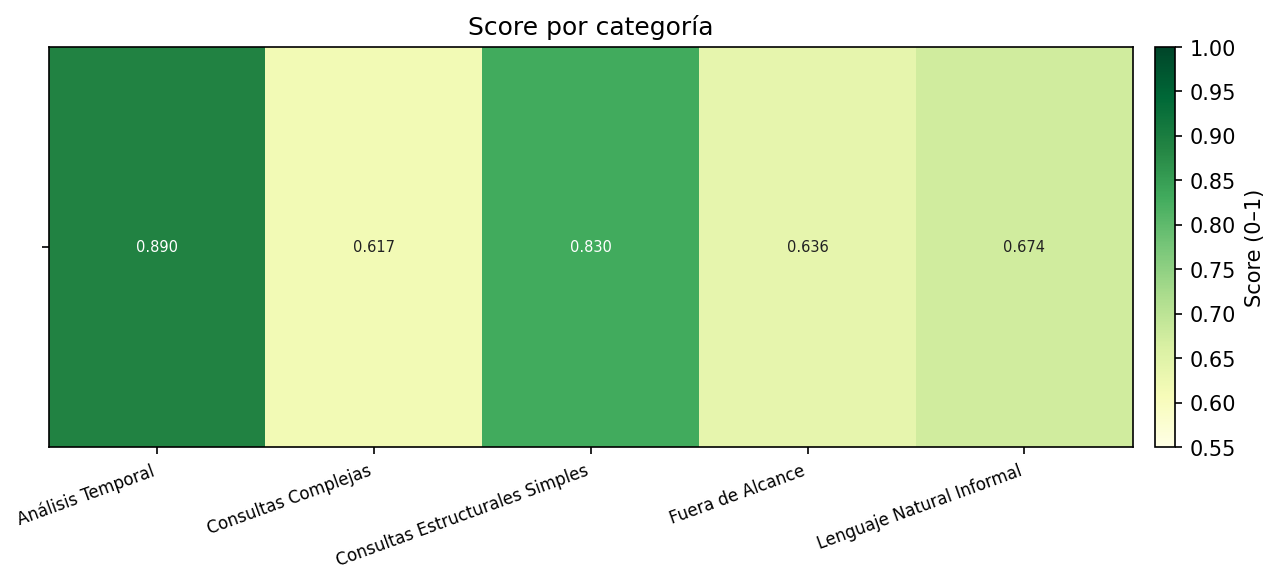
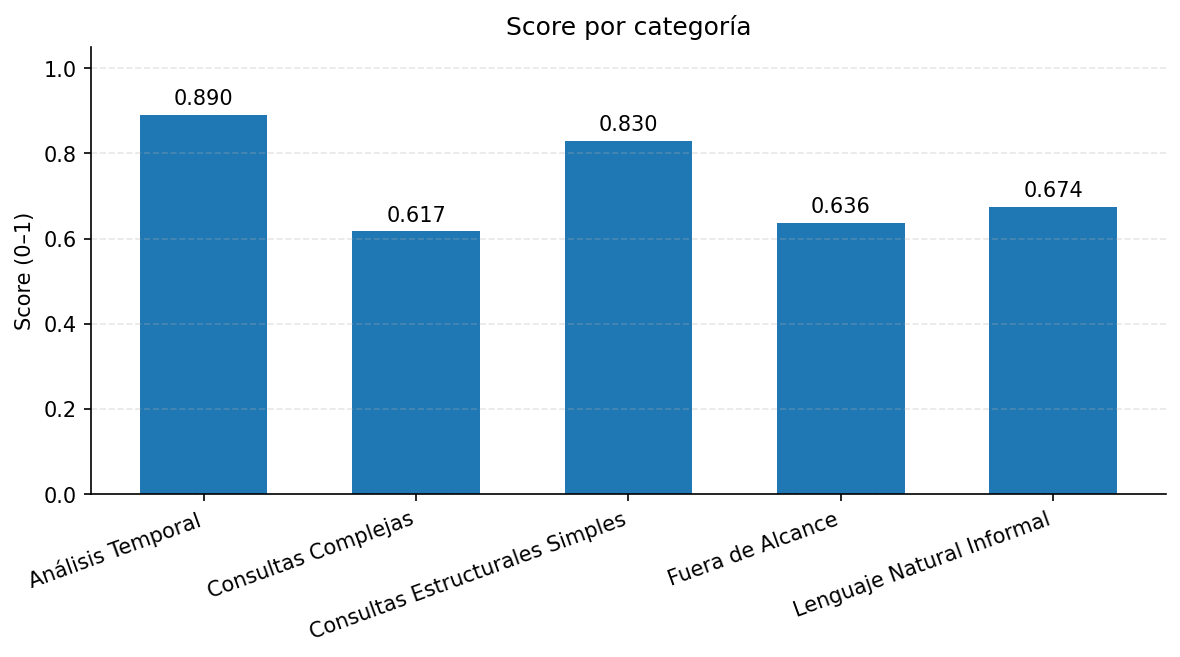
fix charts (#313)

diff --git a/evaluation/results/retrieval_and_generation/end_to_end_report.html b/evaluation/results/retrieval_and_generation/end_to_end_report.html
@@ -33,11 +33,11 @@
   <div class="card">
     <h2>Mini Análisis</h2>
     <ul class="analysis">
-      <li><strong>Retrieval: Qwen/Qwen2.5-Coder-14B-Instruct<br>Generación: google/gemma-3-12b-it / </strong> logra la mejor calidad global (0.817).</li>
-<li>El modelo <strong>Retrieval: Qwen/Qwen2.5-Coder-14B-Instruct<br>Generación: google/gemma-3-12b-it</strong> es el de mayor calidad pico (0.817).</li>
+      <li><strong>Retrieval: Qwen/Qwen2.5-Coder-14B-Instruct<br>Generación: gemma3:4b-it-qat / </strong> logra la mejor calidad global (0.817).</li>
+<li>El modelo <strong>Retrieval: Qwen/Qwen2.5-Coder-14B-Instruct<br>Generación: gemma3:4b-it-qat</strong> es el de mayor calidad pico (0.817).</li>
 <li>El prompt <strong></strong> es el mejor en promedio (0.817).</li>
-<li><strong>Retrieval: Qwen/Qwen2.5-Coder-14B-Instruct<br>Generación: google/gemma-3-12b-it / </strong> maneja mejor los centinelas (accuracy 0.538).</li>
-<li><strong>Retrieval: Qwen/Qwen2.5-Coder-14B-Instruct<br>Generación: google/gemma-3-12b-it / </strong> es el más rápido (latencia media 123.2s, p95 592.3s).</li>
+<li><strong>Retrieval: Qwen/Qwen2.5-Coder-14B-Instruct<br>Generación: gemma3:4b-it-qat / </strong> maneja mejor los centinelas (accuracy 0.538).</li>
+<li><strong>Retrieval: Qwen/Qwen2.5-Coder-14B-Instruct<br>Generación: gemma3:4b-it-qat / </strong> es el más rápido (latencia media 123.2s, p95 592.3s).</li>
     </ul>
   </div>
 
@@ -56,7 +56,7 @@
           <tr><th>Correctitud</th><th>Completitud</th><th>Fidelidad</th><th>media</th><th>mediana</th><th>p95</th></tr>
         </thead>
         <tbody>
-          <tr><td class='llm-name'>Retrieval: Qwen/Qwen2.5-Coder-14B-Instruct<br>Generación: google/gemma-3-12b-it / </td><td style="background:#27ae6018;color:#27ae60;font-weight:600;">0.821</td><td style="background:#27ae6018;color:#27ae60;font-weight:600;">0.728</td><td style="background:#27ae6018;color:#27ae60;font-weight:600;">0.903</td><td style="background:#27ae6018;color:#27ae60;font-weight:600;">0.817</td><td style="background:#e67e2218;color:#e67e22;font-weight:600;">0.538</td><td>123.2s</td><td>45.0s</td><td>592.3s</td></tr>
+          <tr><td class='llm-name'>Retrieval: Qwen/Qwen2.5-Coder-14B-Instruct<br>Generación: gemma3:4b-it-qat / </td><td style="background:#27ae6018;color:#27ae60;font-weight:600;">0.821</td><td style="background:#27ae6018;color:#27ae60;font-weight:600;">0.728</td><td style="background:#27ae6018;color:#27ae60;font-weight:600;">0.903</td><td style="background:#27ae6018;color:#27ae60;font-weight:600;">0.817</td><td style="background:#e67e2218;color:#e67e22;font-weight:600;">0.538</td><td>123.2s</td><td>45.0s</td><td>592.3s</td></tr>
         </tbody>
       </table>
     </div>
@@ -67,7 +67,7 @@
     <div class="overflow-x">
       <table>
         <thead><tr><th>Modelo / Prompt</th><th>Análisis Temporal</th><th>Consultas Complejas</th><th>Consultas Estructurales Simples</th><th>Fuera de Alcance</th><th>Lenguaje Natural Informal</th></tr></thead>
-        <tbody><tr><td class='llm-name'>Retrieval: Qwen/Qwen2.5-Coder-14B-Instruct<br>Generación: google/gemma-3-12b-it / </td><td style="background:#27ae6018;color:#27ae60;font-weight:600;">0.890</td><td style="background:#e67e2218;color:#e67e22;font-weight:600;">0.617</td><td style="background:#27ae6018;color:#27ae60;font-weight:600;">0.830</td><td style="background:#e67e2218;color:#e67e22;font-weight:600;">0.636</td><td style="background:#e67e2218;color:#e67e22;font-weight:600;">0.674</td></tr></tbody>
+        <tbody><tr><td class='llm-name'>Retrieval: Qwen/Qwen2.5-Coder-14B-Instruct<br>Generación: gemma3:4b-it-qat / </td><td style="background:#27ae6018;color:#27ae60;font-weight:600;">0.890</td><td style="background:#e67e2218;color:#e67e22;font-weight:600;">0.617</td><td style="background:#27ae6018;color:#27ae60;font-weight:600;">0.830</td><td style="background:#e67e2218;color:#e67e22;font-weight:600;">0.636</td><td style="background:#e67e2218;color:#e67e22;font-weight:600;">0.674</td></tr></tbody>
       </table>
     </div>
   </div>

diff --git a/evaluation/results/end_to_end/end_to_end_report.html b/evaluation/results/end_to_end/end_to_end_report.html
@@ -33,11 +33,11 @@
   <div class="card">
     <h2>Mini Análisis</h2>
     <ul class="analysis">
-      <li><strong>Retrieval: Qwen/Qwen2.5-Coder-14B-Instruct<br>Generación: google/gemma-3-12b-it / </strong> logra la mejor calidad global (0.438).</li>
-<li>El modelo <strong>Retrieval: Qwen/Qwen2.5-Coder-14B-Instruct<br>Generación: google/gemma-3-12b-it</strong> es el de mayor calidad pico (0.438).</li>
+      <li><strong>Retrieval: Qwen/Qwen2.5-Coder-14B-Instruct<br>Generación: gemma3:4b-it-qat / </strong> logra la mejor calidad global (0.438).</li>
+<li>El modelo <strong>Retrieval: Qwen/Qwen2.5-Coder-14B-Instruct<br>Generación: gemma3:4b-it-qat</strong> es el de mayor calidad pico (0.438).</li>
 <li>El prompt <strong></strong> es el mejor en promedio (0.438).</li>
-<li><strong>Retrieval: Qwen/Qwen2.5-Coder-14B-Instruct<br>Generación: google/gemma-3-12b-it / </strong> maneja mejor los centinelas (accuracy 0.385).</li>
-<li><strong>Retrieval: Qwen/Qwen2.5-Coder-14B-Instruct<br>Generación: google/gemma-3-12b-it / </strong> es el más rápido (latencia media 44.7s, p95 173.9s).</li>
+<li><strong>Retrieval: Qwen/Qwen2.5-Coder-14B-Instruct<br>Generación: gemma3:4b-it-qat / </strong> maneja mejor los centinelas (accuracy 0.385).</li>
+<li><strong>Retrieval: Qwen/Qwen2.5-Coder-14B-Instruct<br>Generación: gemma3:4b-it-qat / </strong> es el más rápido (latencia media 44.7s, p95 173.9s).</li>
     </ul>
   </div>
 
@@ -56,7 +56,7 @@
           <tr><th>Correctitud</th><th>Completitud</th><th>Fidelidad</th><th>media</th><th>mediana</th><th>p95</th></tr>
         </thead>
         <tbody>
-          <tr><td class='llm-name'>Retrieval: Qwen/Qwen2.5-Coder-14B-Instruct<br>Generación: google/gemma-3-12b-it / </td><td style="background:#e74c3c18;color:#e74c3c;font-weight:600;">0.369</td><td style="background:#e74c3c18;color:#e74c3c;font-weight:600;">0.332</td><td style="background:#e67e2218;color:#e67e22;font-weight:600;">0.612</td><td style="background:#e67e2218;color:#e67e22;font-weight:600;">0.438</td><td style="background:#e74c3c18;color:#e74c3c;font-weight:600;">0.385</td><td>44.7s</td><td>11.9s</td><td>173.9s</td></tr>
+          <tr><td class='llm-name'>Retrieval: Qwen/Qwen2.5-Coder-14B-Instruct<br>Generación: gemma3:4b-it-qat / </td><td style="background:#e74c3c18;color:#e74c3c;font-weight:600;">0.369</td><td style="background:#e74c3c18;color:#e74c3c;font-weight:600;">0.332</td><td style="background:#e67e2218;color:#e67e22;font-weight:600;">0.612</td><td style="background:#e67e2218;color:#e67e22;font-weight:600;">0.438</td><td style="background:#e74c3c18;color:#e74c3c;font-weight:600;">0.385</td><td>44.7s</td><td>11.9s</td><td>173.9s</td></tr>
         </tbody>
       </table>
     </div>
@@ -67,7 +67,7 @@
     <div class="overflow-x">
       <table>
         <thead><tr><th>Modelo / Prompt</th><th>Análisis Temporal</th><th>Consultas Complejas</th><th>Consultas Estructurales Simples</th><th>Fuera de Alcance</th><th>Lenguaje Natural Informal</th></tr></thead>
-        <tbody><tr><td class='llm-name'>Retrieval: Qwen/Qwen2.5-Coder-14B-Instruct<br>Generación: google/gemma-3-12b-it / </td><td style="background:#e74c3c18;color:#e74c3c;font-weight:600;">0.347</td><td style="background:#e74c3c18;color:#e74c3c;font-weight:600;">0.200</td><td style="background:#e67e2218;color:#e67e22;font-weight:600;">0.636</td><td style="background:#e67e2218;color:#e67e22;font-weight:600;">0.455</td><td style="background:#e74c3c18;color:#e74c3c;font-weight:600;">0.389</td></tr></tbody>
+        <tbody><tr><td class='llm-name'>Retrieval: Qwen/Qwen2.5-Coder-14B-Instruct<br>Generación: gemma3:4b-it-qat / </td><td style="background:#e74c3c18;color:#e74c3c;font-weight:600;">0.347</td><td style="background:#e74c3c18;color:#e74c3c;font-weight:600;">0.200</td><td style="background:#e67e2218;color:#e67e22;font-weight:600;">0.636</td><td style="background:#e67e2218;color:#e67e22;font-weight:600;">0.455</td><td style="background:#e74c3c18;color:#e74c3c;font-weight:600;">0.389</td></tr></tbody>
       </table>
     </div>
   </div>

diff --git a/evaluation/scripts/evaluate_end_to_end.py b/evaluation/scripts/evaluate_end_to_end.py
@@ -126,7 +126,7 @@ CORPUS_DIR = DATA_DIR / "corpus"
 DOCLING_DIR = DEFAULT_DOCLING_DIR
 CHUNKS_DIR = DATA_DIR / "chunks"
 EXTRACTED_FILENAME = "entity_documents.json"
-RESULTS_DIR = EVAL_DIR / "results" / "retrieval_and_generation"
+RESULTS_DIR = EVAL_DIR / "results" / "end_to_end"
 DEFAULT_DETAILS_PATH = RESULTS_DIR / "end_to_end_details.json"
 DEFAULT_SUMMARY_PATH = RESULTS_DIR / "end_to_end_summary.json"
 
@@ -973,33 +973,114 @@ def generate_charts(results: List[Dict[str, Any]], images_dir: Path) -> Dict[str
     plt.close(fig)
     paths["overall"] = p
 
-    # 2) Score por dimensión → heatmap (combos × 3 dimensiones).
-    dim_matrix = np.array([[r["dim_means"][d] for d in JUDGE_DIMS] for r in results])
-    paths["dimensions"] = _heatmap(
-        images_dir / "chart_dimensions.png", dim_matrix, [""] * n,
-        [DIM_LABELS[d] for d in JUDGE_DIMS], "Score por dimensión", fig_h,
+    # 2) Score por dimensión → barras.
+    dimensions = JUDGE_DIMS
+    dim_labels = [DIM_LABELS[d] for d in dimensions]
+
+    values = [results[0]["dim_means"][d] for d in dimensions]
+
+    fig, ax = plt.subplots(figsize=(7, 4.5))
+
+    bars = ax.bar(
+        dim_labels,
+        values,
+        width=0.6,
     )
 
-    # 3) Score por categoría → heatmap (combos × categorías).
+    for bar, value in zip(bars, values):
+        ax.text(
+            bar.get_x() + bar.get_width() / 2,
+            value + 0.015,
+            f"{value:.3f}",
+            ha="center",
+            va="bottom",
+            fontsize=10,
+        )
+
+    ax.set_ylim(0, 1.05)
+    ax.set_ylabel("Score (0–1)")
+    ax.set_title("Score por dimensión")
+
+    ax.grid(axis="y", linestyle="--", alpha=0.3)
+
+    ax.spines["top"].set_visible(False)
+    ax.spines["right"].set_visible(False)
+
+    fig.tight_layout()
+
+    p = images_dir / "chart_dimensions.png"
+    fig.savefig(p, dpi=150, bbox_inches="tight")
+    plt.close(fig)
+
+    paths["dimensions"] = p
+
+    # 3) Score por categoría → barras, similar a score por dimensión.
     all_cats = sorted({c for r in results for c in r["by_category"]})
-    cat_matrix = np.array([[r["by_category"].get(c, np.nan) for c in all_cats] for r in results])
-    paths["categories"] = _heatmap(
-        images_dir / "chart_categories.png", cat_matrix, [""] * n, all_cats, "Score por categoría", fig_h,
+
+    values = [results[0]["by_category"].get(c, 0.0) for c in all_cats]
+
+    fig, ax = plt.subplots(figsize=(8, 4.5))
+
+    bars = ax.bar(
+        all_cats,
+        values,
+        width=0.6,
     )
 
-    # 4) Latencia (media + p95): barras horizontales agrupadas, ordenadas por media.
+    for bar, value in zip(bars, values):
+        ax.text(
+            bar.get_x() + bar.get_width() / 2,
+            value + 0.015,
+            f"{value:.3f}",
+            ha="center",
+            va="bottom",
+            fontsize=10,
+        )
+
+    ax.set_ylim(0, 1.05)
+    ax.set_ylabel("Score (0–1)")
+    ax.set_title("Score por categoría")
+
+    ax.grid(axis="y", linestyle="--", alpha=0.3)
+
+    ax.spines["top"].set_visible(False)
+    ax.spines["right"].set_visible(False)
+
+    plt.xticks(rotation=20, ha="right")
+
+    fig.tight_layout()
+
+    p = images_dir / "chart_categories.png"
+    fig.savefig(p, dpi=150, bbox_inches="tight")
+    plt.close(fig)
+
+    paths["categories"] = p
+
+    # 4) Latencia (media + p95): barras horizontales simples.
     by_lat = sorted(results, key=lambda r: r["latency"]["mean"])
-    yl = np.arange(len(by_lat))[::-1]
-    fig, ax = plt.subplots(figsize=(8.0, fig_h))
-    ax.barh(yl + 0.2, [r["latency"]["mean"] for r in by_lat], 0.4, color=PALETTE[3], label="Media")
-    ax.barh(yl - 0.2, [r["latency"]["p95"] for r in by_lat], 0.4, color=PALETTE[1], label="p95")
-    ax.set_yticks(yl)
-    ax.tick_params(axis="y", left=False, labelleft=False)
-    ax.set_xlabel("Segundos")
-    ax.set_xlim(0, 600)
+
+    # Si hay una sola combinación, usamos sus valores
+    mean_val = by_lat[0]["latency"]["mean"]
+    p95_val = by_lat[0]["latency"]["p95"]
+
+    y_labels = ["Media", "p95"]
+    values = [mean_val, p95_val]
+    colors = [PALETTE[3], PALETTE[1]]
+
+    fig, ax = plt.subplots(figsize=(8.0, 4.5))
+
+    ax.barh(y_labels, values, color=colors)
+
+    ax.set_xlabel("Latencia (segundos)")
+    ax.set_ylabel("Estadístico de latencia")
     ax.set_title("Latencia de generación por combinación")
-    ax.legend(fontsize=8, loc="lower right", framealpha=0.9)
-    ax.spines[["top", "right"]].set_visible(False)
+
+    max_latency = max(values)
+    ax.set_xlim(0, max_latency * 1.08)
+
+    ax.spines["top"].set_visible(False)
+    ax.spines["right"].set_visible(False)
+
     fig.tight_layout()
     p = images_dir / "chart_latency.png"
     fig.savefig(p, dpi=150, bbox_inches="tight")
